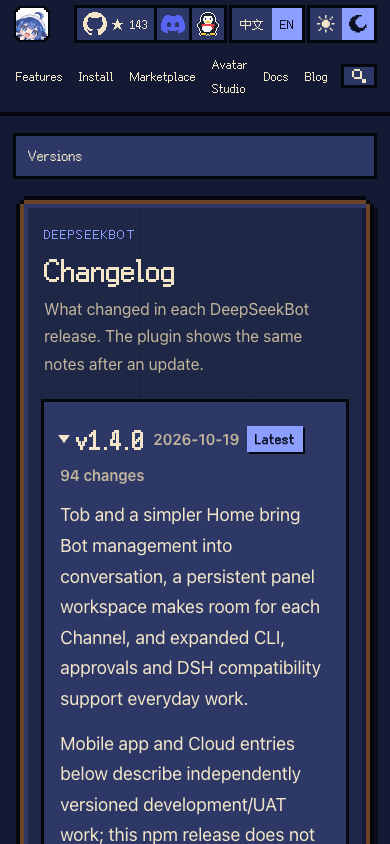
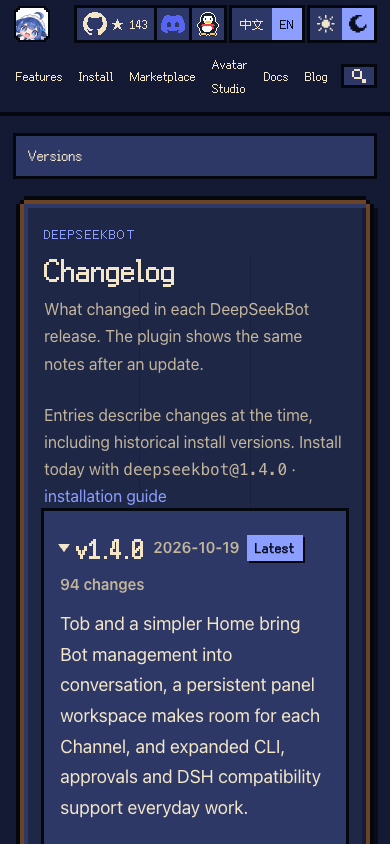
fix(site): distinguish historical notes from the current install
Keep the published canonical ledger immutable while directing readers to the stable exact package and localized installation guide. Add bilingual rendering assertions.

Agent-Task: codex/local/01a14f6f-2958-70f1-86b2-426c0916aa5a

Changed region(s): [[0.0923, 0.4621, 0.8923, 1.0]]

diff --git a/scripts/changelog.ts b/scripts/changelog.ts
@@ -9,6 +9,7 @@ import { headerCommunityMarkup } from '../src/headerCommunity.ts';
 import { navIconSvg, type NavIcon } from '../src/navIcons.ts';
 import { VERSION } from '../src/installRelease.ts';
 import { privacyPath, searchButton } from './docs.ts';
+import { DESKTOP_PACKAGE } from '../src/installRelease.ts';
 
 type Lang = 'zh' | 'en';
 const SITE = 'https://deepseekbot.app';
@@ -45,6 +46,8 @@ const UI = {
     suffix: 'DeepSeekBot',
     description: 'DeepSeekBot 每个版本的新增、变更和修复。',
     lead: '每个 DeepSeekBot 版本的变化。插件会在更新后弹出同样的内容。',
+    installNote: '条目记录当时的变化，包括历史安装版本；当前安装请使用',
+    installLink: '安装指南',
     versions: '版本',
     development: '开发历史',
     developmentNote: '首个 npm 版本之前的开发记录，没有对应的安装包。',
@@ -86,6 +89,9 @@ const UI = {
     suffix: 'DeepSeekBot',
     description: 'What was added, changed and fixed in each DeepSeekBot release.',
     lead: 'What changed in each DeepSeekBot release. The plugin shows the same notes after an update.',
+    installNote:
+      'Entries describe changes at the time, including historical install versions. Install today with',
+    installLink: 'installation guide',
     versions: 'Versions',
     development: 'Development history',
     developmentNote: 'Work before the first npm release; it has no installable package.',
@@ -328,6 +334,7 @@ function page(lang: Lang, releases: Release[]) {
           <p class="kicker">DeepSeekBot</p>
           <h1>${t.title}</h1>
           <p class="docs-lead">${t.lead}</p>
+          <p class="changelog-note">${t.installNote} <code>${escape(DESKTOP_PACKAGE)}</code> · <a href="${home(lang)}docs/installation/">${t.installLink}</a></p>
           <div class="docs-body changelog-body">${body(lang, releases)}</div>
         </article>
         <p class="docs-source"><a href="${GITHUB_BLOB}${lang === 'zh' ? 'CHANGELOG.zh.md' : 'CHANGELOG.md'}" target="_blank" rel="noreferrer">${t.source}</a></p>
